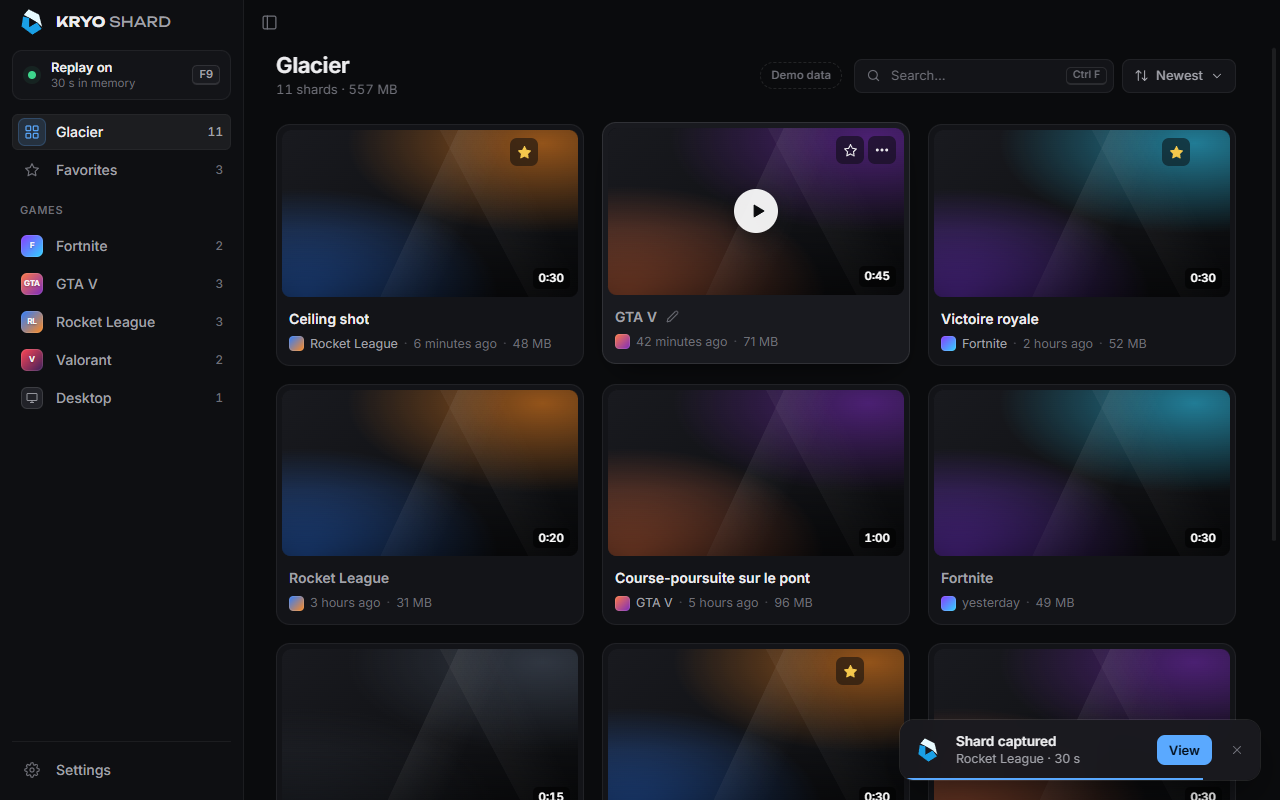
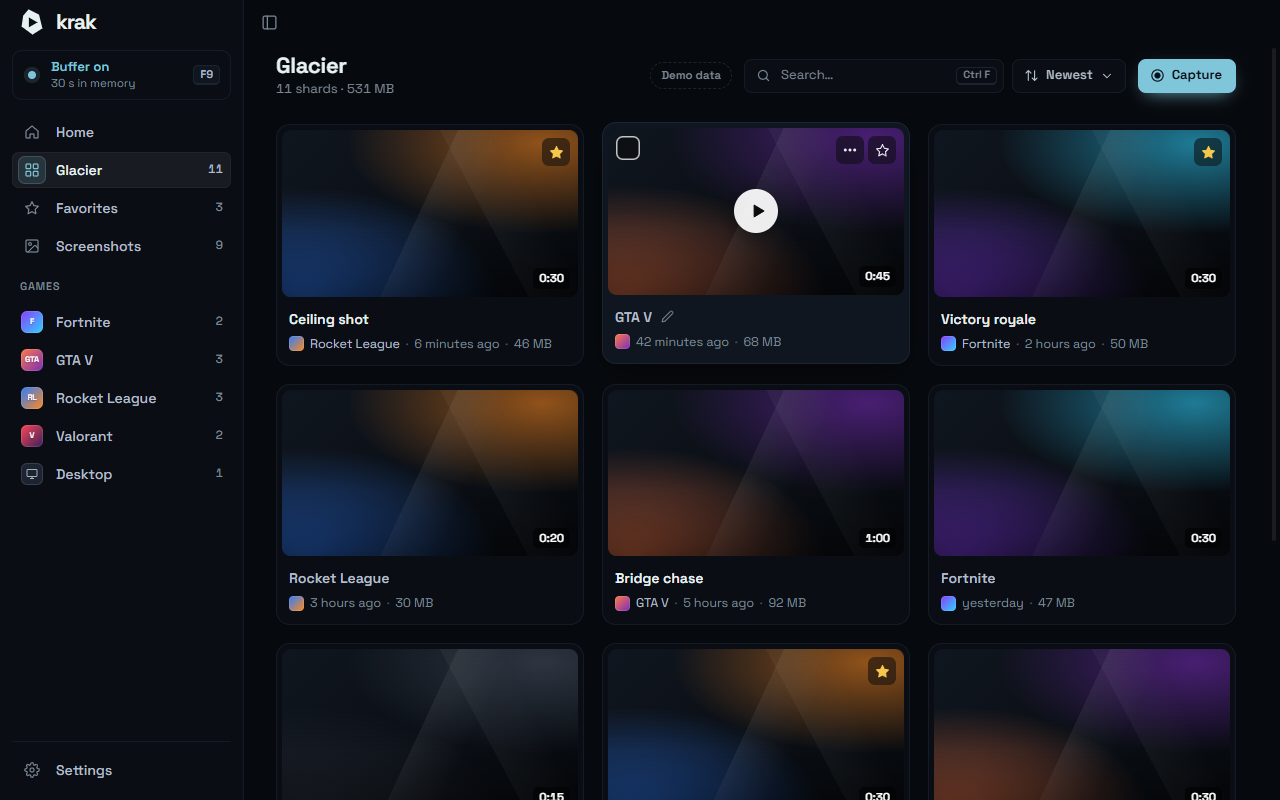
Update the README for Krak
The roadmap now covers recording, screenshots, exports, Discord presence and the 12 languages, the capture section explains recording, and the preview shows the new Glacier (with English demo titles).

diff --git a/src/lib/demo.ts b/src/lib/demo.ts
@@ -13,14 +13,14 @@ export function demoShards(): Shard[] {
   return [
     shard('Rocket League', 'Ceiling shot', 30, 48, 6, true),
     shard('GTA V', null, 45, 71, 42),
-    shard('Fortnite', 'Victoire royale', 30, 52, 95, true),
+    shard('Fortnite', 'Victory royale', 30, 52, 95, true),
     shard('Rocket League', null, 20, 31, 180),
-    shard('GTA V', 'Course-poursuite sur le pont', 60, 96, 300),
+    shard('GTA V', 'Bridge chase', 60, 96, 300),
     shard('Fortnite', null, 30, 49, 1500),
     shard(null, null, 15, 12, 2900),
     shard('Rocket League', 'Triple save', 30, 47, 4400, true),
     shard('GTA V', null, 30, 50, 7300),
-    shard('Valorant', 'Ace en défense', 40, 63, 9800),
+    shard('Valorant', 'Defense ace', 40, 63, 9800),
     shard('Valorant', null, 25, 38, 12000),
   ];
 }

diff --git a/README.md b/README.md
@@ -34,18 +34,21 @@ A clip is called a **shard**. Your library is the **Glacier**.
 
 ## Roadmap to the first beta
 
-- [x] Brand, app shell and Glacier preview (FR / EN)
-- [x] App foundation: settings, global hotkey, tray icon, launch at Windows startup, single instance
-- [x] Glacier: shards sorted by game, favorites, search, rename, built-in player, copy a clip for Discord, Recycle Bin
-- [x] Always-on replay buffer (capture engine), capture sound and in-game notification
+- [x] Krak identity, in 12 languages that follow Windows
+- [x] App foundation: settings, global shortcuts, tray icon, launch at Windows startup, single instance
+- [x] Glacier: shards sorted by game, favorites, search, rename, multi-select, built-in player, Recycle Bin
+- [x] Always-on replay buffer, encoded natively with NVENC on NVIDIA (H.264, HEVC), with Standard, High and Premium presets
+- [x] Continuous recording while the replay keeps working, safe from crashes
+- [x] Screenshots, with their own page
 - [x] Separate audio tracks: game and microphone, plus a mix that every player picks by default
-- [x] Editor: trim bar, mute or lower each audio track
-- [x] Discord export: fit a clip under 10 MB, 50 MB or 500 MB, copy and paste it straight into Discord
+- [x] Editor: trim bar, waveforms, volume of each audio track, remembered per clip
+- [x] Export to a file, to the Glacier or to Discord under 10 MB, 50 MB or 500 MB, with an optional "by krak" badge
+- [x] Discord Rich Presence
 - [x] Installer and signed automatic updates
 - [ ] Windows code signing (no SmartScreen warning)
-- [ ] Separate Discord voice track, mouse cursor in clips, choice of the captured screen
+- [ ] Native AMD and Intel encoders, separate Discord voice track, mouse cursor in clips, choice of the captured screen
 
-**Later:** auto-clips (Rocket League first), vertical 9:16 format, slow motion, text and local subtitles, importing clips from ShadowPlay / OBS / Medal, Discord Rich Presence, community translations and detectors.
+**Later:** auto-clips (Rocket League first), vertical 9:16 format, slow motion, text and local subtitles, importing clips from ShadowPlay / OBS / Medal, community translations and detectors.
 
 ## Building from source
 
@@ -63,7 +66,7 @@ Releases are built by GitHub Actions: push a tag such as `v0.2.0` (matching the 
 
 ### How capture works
 
-The screen is read with DXGI Desktop Duplication, the same Windows API that OBS and Discord use, so nothing is injected into games. Frames are encoded on the graphics card and the last seconds are kept in memory: on NVIDIA through the driver's NVENC directly (H.264, HEVC and AV1 where the card has it, with B-frames, lookahead and adaptive quantization), on AMD and Intel through Media Foundation, with a software fallback. If the encoder cannot keep up (a heavy game, a high frame rate), it switches to lighter settings on the fly instead of dropping frames. Game sound comes from WASAPI loopback and the microphone from its own device, on separate tracks. Pressing the hotkey writes an MP4 straight from memory, without re-encoding.
+The screen is read with DXGI Desktop Duplication, the same Windows API that OBS and Discord use, so nothing is injected into games. Frames are encoded on the graphics card and the last seconds are kept in memory: on NVIDIA through the driver's NVENC directly (H.264, HEVC and AV1 where the card has it, with B-frames, lookahead and adaptive quantization), on AMD and Intel through Media Foundation, with a software fallback. If the encoder cannot keep up (a heavy game, a high frame rate), it switches to lighter settings on the fly instead of dropping frames. Game sound comes from WASAPI loopback and the microphone from its own device, on separate tracks. Pressing the hotkey writes an MP4 straight from memory, without re-encoding. Continuous recording reuses the same encoded video and writes a fragmented MP4 as it goes, so a crash loses at most a second; screenshots are full-resolution PNGs of the same capture.
 
 The quality presets and the measurements behind them (bitrates, tools, PSNR/SSIM, encoder speed) are documented in [`src-tauri/src/capture/quality.rs`](src-tauri/src/capture/quality.rs). The NVENC layer is a small C file compiled by `cargo` with the Visual Studio C++ tools, against NVIDIA's MIT-licensed `nvEncodeAPI.h` ([`src-tauri/native/nvenc`](src-tauri/native/nvenc)); the NVENC library itself ships with the NVIDIA driver and is loaded at run time, never redistributed.
 
